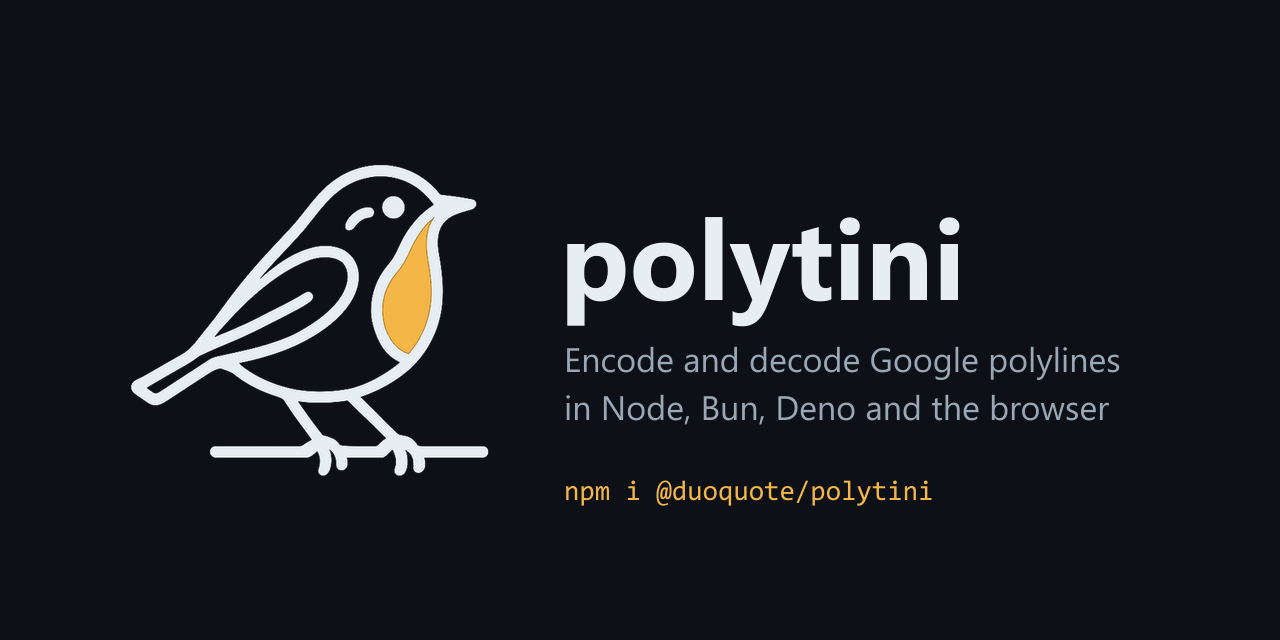
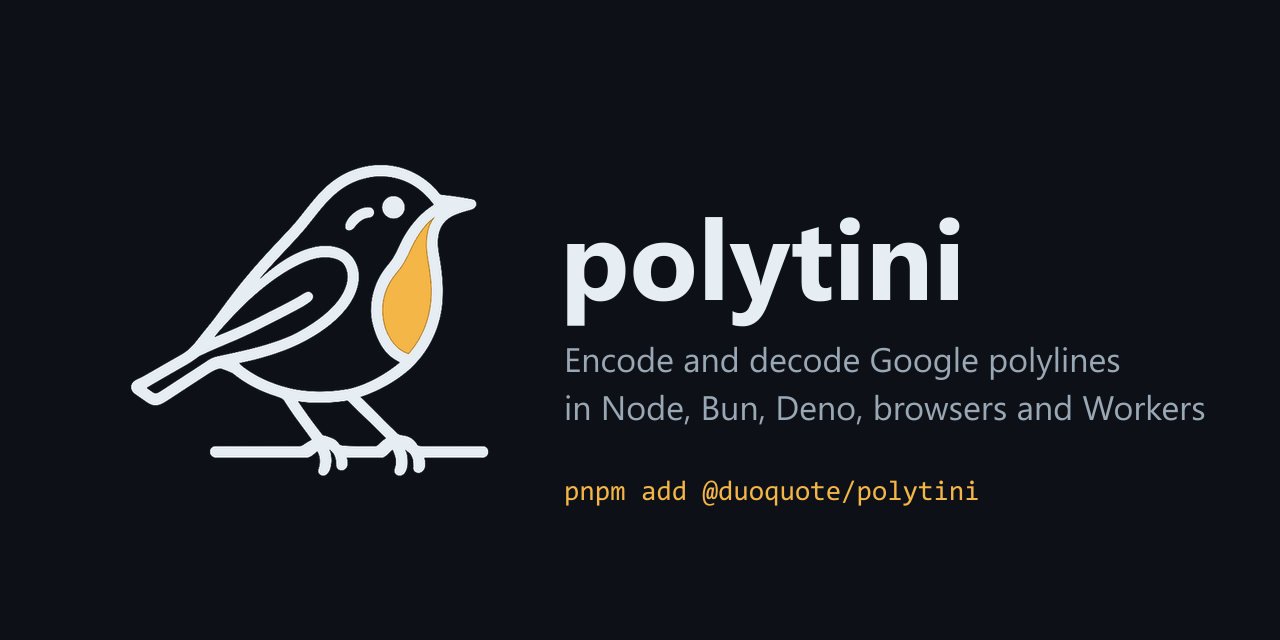
List pnpm, Bun and Deno first in the install and CLI docs
One copyable block per package manager, npm last. Same order for the
one-off CLI runs, and the social preview shows pnpm add.

Changed region(s): [[0.6562, 0.625, 0.9375, 0.6562], [0.5938, 0.75, 0.7812, 0.7812], [0.4375, 0.75, 0.5625, 0.7812]]

diff --git a/README.md b/README.md
@@ -21,8 +21,23 @@ polytini encodes and decodes [Google encoded polylines](https://developers.googl
 ## Install
 
 ```sh
-npm install @duoquote/polytini      # or pnpm add, yarn add, bun add
+pnpm add @duoquote/polytini
+```
+
+```sh
+bun add @duoquote/polytini
+```
+
+```sh
 deno add jsr:@duoquote/polytini
+```
+
+```sh
+yarn add @duoquote/polytini
+```
+
+```sh
+npm i @duoquote/polytini
 ```
 
 ESM and CommonJS, with TypeScript types. Node 22 or newer, Bun, Deno, browsers and Cloudflare Workers.
@@ -118,11 +133,22 @@ await init(wasm);
 ## CLI
 
 ```sh
-npx @duoquote/polytini decode '_p~iF~ps|U_ulLnnqC_mqNvxq`@'
-echo '[[38.5,-120.2],[40.7,-120.95]]' | npx @duoquote/polytini encode
+pnpm dlx @duoquote/polytini decode '_p~iF~ps|U_ulLnnqC_mqNvxq`@'
 ```
 
-JSON, GeoJSON, CSV and plain lines; works with `bunx`, `pnpm dlx`, `yarn dlx` and `deno run jsr:@duoquote/polytini/cli`. All options: [docs/cli.md](docs/cli.md).
+```sh
+bunx @duoquote/polytini decode '_p~iF~ps|U_ulLnnqC_mqNvxq`@'
+```
+
+```sh
+deno run jsr:@duoquote/polytini/cli decode '_p~iF~ps|U_ulLnnqC_mqNvxq`@'
+```
+
+```sh
+npx @duoquote/polytini decode '_p~iF~ps|U_ulLnnqC_mqNvxq`@'
+```
+
+It reads stdin too: `echo '[[38.5,-120.2],[40.7,-120.95]]' | bunx @duoquote/polytini encode`. JSON, GeoJSON, CSV and plain lines. All options: [docs/cli.md](docs/cli.md).
 
 ## More
 

diff --git a/docs/cli.md b/docs/cli.md
@@ -1,12 +1,26 @@
 # CLI
 
 ```sh
-npx @duoquote/polytini decode '_p~iF~ps|U_ulLnnqC_mqNvxq`@'
+pnpm dlx @duoquote/polytini decode '_p~iF~ps|U_ulLnnqC_mqNvxq`@'
+```
+
+```sh
 bunx @duoquote/polytini encode --file points.csv
+```
+
+```sh
 deno run jsr:@duoquote/polytini/cli decode -p 6 -f geojson --file route.txt
 ```
 
-`pnpm dlx @duoquote/polytini` and `yarn dlx @duoquote/polytini` work too. The command is `polytini`:
+```sh
+yarn dlx @duoquote/polytini decode '_p~iF~ps|U_ulLnnqC_mqNvxq`@'
+```
+
+```sh
+npx @duoquote/polytini decode '_p~iF~ps|U_ulLnnqC_mqNvxq`@'
+```
+
+Installed in a project, the command is `polytini`:
 
 ```
 polytini 0.1.2: encode and decode Google encoded polylines
